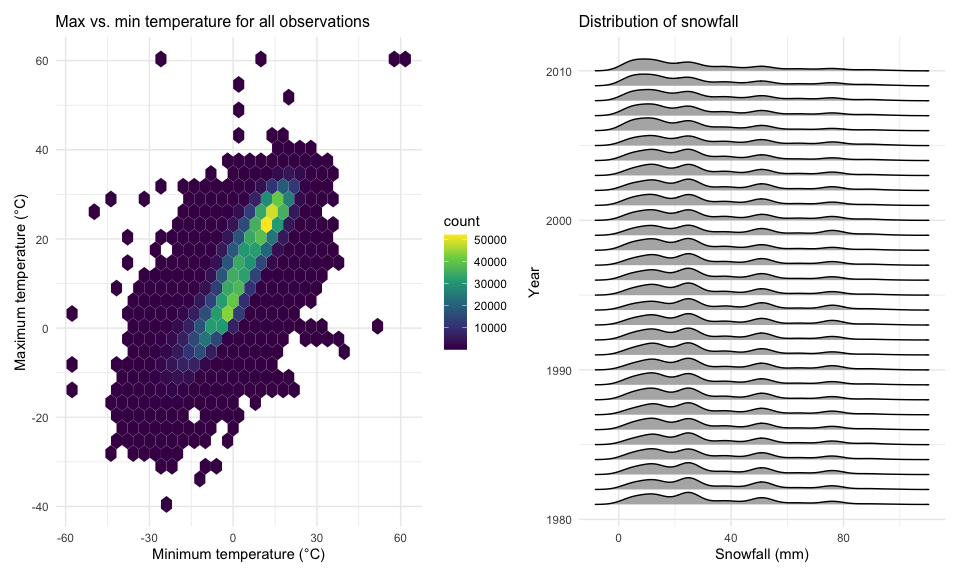
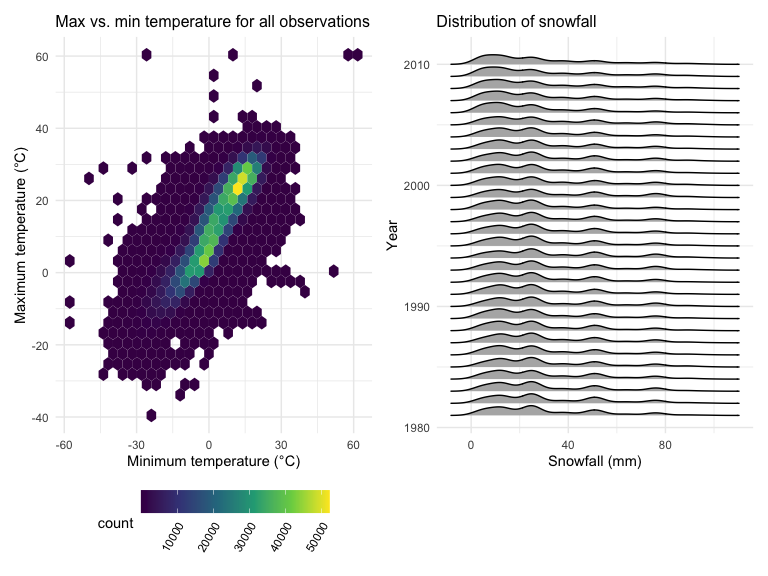
made changes on plot

diff --git a/p8105_hw3_lg3239.md b/p8105_hw3_lg3239.md
@@ -312,11 +312,12 @@ plot_i =
   ny_noaa_tidy %>%
   ggplot(aes(x = tmin, y = tmax)) +
   geom_hex() +
-  theme(legend.position = "right") +
   labs(x = "Minimum temperature (°C)",
        y = "Maximum temperature (°C)",
        title = "Max vs. min temperature for all observations") +
-  theme(plot.title = element_text(size = 12))
+  theme(plot.title = element_text(size = 12)) +
+  theme(legend.key.width = unit(1, 'cm')) +
+  theme(legend.text = element_text(angle = 60, hjust = 1))
 
 plot_ii = 
   ny_noaa_tidy %>%
